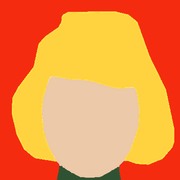
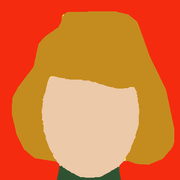
Corrige le contraste visage/cheveux de l'icône en mode couleurs réduites
Le jaune des cheveux (255,210,63) et le beige du visage (236,201,168)
avaient une luminance quasi identique (207 vs 208 sur 255) : en couleur
c'était lisible, mais sous le mode d'apparence d'icônes "teintées"
d'iOS (qui repose sur la luminance, pas la teinte), visage et cheveux
devenaient indiscernables. Cheveux recolorés en doré plus soutenu
(196,140,30, luminance 144) pour un écart net (~64 points) tout en
restant visuellement blond en couleur normale.

diff --git a/index.html b/index.html
@@ -42,7 +42,7 @@
     <p class="tagline">« Les seules histoires pour enfants qui n'emmerdent pas les adultes »</p>
     <h1>Alice &amp; Sophie</h1>
     <div class="header-meta-row">
-      <a id="version-badge" class="version-badge" href="#changelog">v2.70</a>
+      <a id="version-badge" class="version-badge" href="#changelog">v2.71</a>
       <button id="sidebar-toggle" class="sidebar-toggle" aria-label="Ouvrir le menu" aria-expanded="false">
         <svg width="22" height="16" viewBox="0 0 22 16" fill="none" xmlns="http://www.w3.org/2000/svg" aria-hidden="true">
           <line x1="0" y1="1" x2="22" y2="1" stroke="currentColor" stroke-width="1.4"/>
